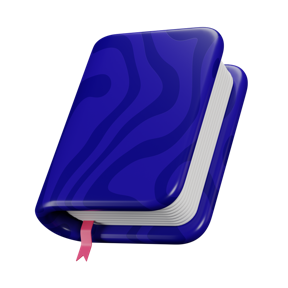
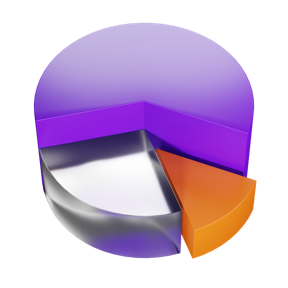
Zero-state art: calendar, pie chart and coffee cup replace three placeholders
Charen sourced the three the first pass could not fill. Each was chosen
against what the state's copy promises, then checked on the simulator:

- Money upcoming: calculator -> calendar. The copy promises a next date; a
  calculator means arithmetic.
- Insights this month: book -> exploded pie chart with one slice pulled out,
  which draws "See where the month went" literally. A book meant reading, and
  the lessons section was deleted in Phase 2.
- Money habits: dartboard -> takeaway coffee cup. A dartboard means "hit your
  target", the opposite motion from breaking a habit. The cup is the app's own
  house example: onboardingPresets lists "Coffee or tea out" first and the
  leak-scan payoff screen uses coffee as its worked example.

Rejected along the way, both recorded in ADR 0036: a flame for habits, because
the anti-reference list names streak flames and a flame means momentum on a
surface that exists before any momentum; and a leather wallet for Today kept,
because the Money tab's own icon is a wallet, cards fanned out is the gesture
of paying rather than keeping, and a wallet cannot show accumulation.

Bag, receipt, calendar and cup now share one warm family. today-kept is the
last placeholder: blue and gold under a sage "KEPT TODAY" label, and at 96pt
its speckle reads as noise. A stack of coins or a piggy bank would fix both.

assets/ 426 KB. 1080 tests, tsc clean, all seven states walked again.

diff --git a/constants/emptyArt.ts b/constants/emptyArt.ts
@@ -14,13 +14,15 @@
  * committed. Re-export with:
  *   sips -z 288 288 <source>.png --out assets/empty-states/<slug>.png
  *
- * Three of the seven are placeholders standing in for art that has not been
- * sourced yet, recorded in ADR 0036 and in design/decisions/components/
- * EmptyState.md: 'money-upcoming' wants a calendar or clock rather than a
- * calculator, 'money-habits' wants a dripping tap (the product's own word is
- * "leak") rather than a dartboard, and 'insights-month' wants a pie or bar
- * chart rather than a book. Swapping one is a single file replacement here;
- * no call site changes.
+ * Six of the seven are settled. 'today-kept' is the one still standing in:
+ * it is a blue and gold money sack under a sage "KEPT TODAY" label, so it
+ * inverts the one colour this app reserves for a meaning, and at 96pt its
+ * speckle reads as noise rather than money. A stack of coins or a piggy bank
+ * would say "money that never left" without the collision. Recorded in
+ * ADR 0036.
+ *
+ * Swapping any of these is a single file replacement here; no call site
+ * changes. That is the point of the registry.
  */
 
 /** Rendered edge length in points. One scale for every zero state. */

diff --git a/design/decisions/modules/money.md b/design/decisions/modules/money.md
@@ -9,19 +9,18 @@ Vocabulary (ADR 0034): **Zero** nothing ever happened here; **Quiet** history el
 - Spent Zero: pane-level empty state, 96pt receipt, "Every expense in one place". Reach: Persona new user.
 - Spent Quiet: today's section shows a compact white card ("Nothing yet today"), past days still listed. Deliberately not the EmptyState primitive, so past days stay visible below it. Reach: returning user, delete today's rows.
 - Spent Live: day sections newest first, edit hint in the footer.
-- Upcoming Zero: no recurring expense exists at all, so the whole window and total card is dropped for a 96pt calculator and "Know what's coming before it lands". Reach: Persona new user.
+- Upcoming Zero: no recurring expense exists at all, so the whole window and total card is dropped for a 96pt calendar and "Know what's coming before it lands". Reach: Persona new user.
 - Upcoming window-empty: something recurs, just not in the picked window. Keeps the total card and shows a body-only inline empty state, because the window picker is how the user gets back to their data. A different state from Zero on purpose.
-- Habits Zero: 96pt dartboard, "Find the leak worth breaking". Reach: Persona new user.
+- Habits Zero: 96pt takeaway coffee cup, "Find the leak worth breaking". Reach: Persona new user.
 - Habits Live: managed rows plus the monthly total.
 
 ## Decisions
 - 2026-09-05: the three Zero states carry 96pt illustrations instead of the shared 28pt ChartLine glyph. Why: Spent, Upcoming and Habits rendered an identical mark, so switching segments changed the words and nothing else. ADR 0036.
+- 2026-09-05: Upcoming's calculator became a calendar and Habits' dartboard became a takeaway coffee cup. Why: a calculator means arithmetic where the copy promises a next date, and a dartboard means "hit your target" where the app's own word is leak. The cup is the house example: `constants/onboardingPresets.ts` lists "Coffee or tea out" first, and the leak-scan payoff screen uses coffee as its worked example. Rejected: a dripping tap (better still, none available), a flame (the anti-reference list names streak flames). ADR 0036.
 - 2026-09-05: Zero copy names what the surface gives you rather than reporting an absence. "Nothing logged yet" became "Every expense in one place"; "Nothing repeating yet" became "Know what's coming before it lands"; "No leaks spotted yet" became "Find the leak worth breaking". Why: half the app's zero states sold a benefit and half described a void, and the benefit voice is the one that converts a skipper. ADR 0036.
 - Upcoming keeps two distinct empty states (true-zero and window-empty). Why: hiding the window picker when a window is merely empty would strand the user away from data they have.
 
 ## Open
-- The Upcoming illustration is a placeholder. A calculator means arithmetic; this state is about a next date, so it wants a calendar or a clock. Seen on the 2026-09-05 walk, the clearest art-to-copy mismatch of the seven. ADR 0036.
-- The Habits illustration is a placeholder. A dartboard means "hit your target"; "leak" is the product's own word and a dripping tap would name it. It pairs better with "Find the leak worth breaking" than expected, so this is the least urgent of the three swaps.
 - Whether Money's empty states drop their body line as Today's did (carried over from EmptyState.md).
 
 ## Iterations

diff --git a/design/decisions/modules/insights.md b/design/decisions/modules/insights.md
@@ -6,7 +6,7 @@ Where the money went, and which leaks are worth breaking. Two segments: This mon
 ## States
 Vocabulary (ADR 0034): **Zero** nothing ever happened here; **Live** data present.
 
-- This month Zero: no expenses and no leaks, so the whole three-card stack is replaced by a pane-level empty state, 96pt book, "See where the month went". Reach: Persona new user.
+- This month Zero: no expenses and no leaks, so the whole three-card stack is replaced by a pane-level empty state, 96pt exploded pie chart, "See where the month went". Reach: Persona new user.
 - This month Live: LeaksCard, WhereItWentCard, PaceCard. Each carries its own in-card empty line rather than disappearing, so the shape of the screen is stable as data arrives.
 - First scan Zero: no scan on file, 96pt magnifier, "Find the leaks you already have". Reach: Persona new user.
 - First scan Live: ScanSnapshotCard.
@@ -15,12 +15,13 @@ Vocabulary (ADR 0034): **Zero** nothing ever happened here; **Live** data presen
 ## Decisions
 - 2026-09-05: both Zero states carry 96pt illustrations instead of the shared 28pt ChartLine glyph. Why: This month and First scan are different questions and rendered the same mark. ADR 0036.
 - 2026-09-05: `scanEmptyTitle` ("Find the leaks you already have") was left untouched in the copy pass and used as the model for every other zero state. Why: it is the only line in the app that names a benefit the user already owns rather than an action they must take.
+- 2026-09-05: the book became an exploded pie chart with one slice pulled out. Why: a book means reading, and the lessons section was deleted in Phase 2, so the art advertised a feature that does not exist. The pulled slice draws the copy literally. ADR 0036.
 - 2026-09-05: `monthEmptyTitle` became "See where the month went". Why: "Your first insights are a few logs away" measured the distance to value instead of naming it.
 - In-card empty states (leaks, where it went, pace) stay text-only, no art. Why: an illustration inside a card competes with the card it sits in; the pane-level mark is the one that earns the space.
 - Pace and Where it went carry no CTA. Why: they resolve with time and data, not with a tap, and a button there would be a lie about what the user can do.
 
 ## Open
-- The This month illustration is a placeholder. A book means reading, and the app deliberately deleted its lessons section in Phase 2, so the art advertises a feature that does not exist. A pie or bar chart belongs here. Seen on the 2026-09-05 walk, the weakest art-to-copy pairing after Upcoming. ADR 0036.
+- The This month pie is lavender, which the palette reserves for the habit arc and premium. It is the one illustration whose colour claims a meaning on a surface that does not own it. Low severity: a pie chart is unambiguous enough that the hue reads as decoration. Watch it on the device pass.
 - Whether Insights' empty states drop their body line as Today's did (carried over from EmptyState.md).
 
 ## Iterations

diff --git a/design/decisions/components/EmptyState.md b/design/decisions/components/EmptyState.md
@@ -17,9 +17,8 @@ With or without each part; inline / fill; art or glyph.
 
 ## Open
 - Decide whether Money's, Insights' and Categories' empty states drop their body too.
-- Three illustrations are placeholders and want replacing (ADR 0036). Seen on the simulator walk, 2026-09-05: `money-upcoming` is a calculator under copy about a next date, the clearest mismatch of the seven; `insights-month` is a book under "See where the month went", where a pie or bar chart belongs; `money-habits` is a dartboard where a dripping tap would name the product's own word. Swapping one is a file replacement in `assets/empty-states/`, no call site changes.
-- The kept illustration is blue and gold while kept is sage everywhere else, including the chip label directly above it. Seen 2026-09-05 on Today, Kept Zero. Recolour if the source allows.
-- At 96pt the kept sack reads as a blue ball with an orange ribbon; its gold speckle becomes noise. Busiest render in the set.
+- `today-kept` is the last placeholder. It is blue and gold while kept is sage everywhere else, including the chip label directly above it, and at 96pt it reads as a blue ball with an orange ribbon because the gold speckle becomes noise. Seen 2026-09-05 on Today, Kept Zero. A stack of coins (which depicts accumulation, as the kept counter does) or a piggy bank would fix both problems; a green variant would be better still, since kept is the one concept in this app that owns a colour and no illustration currently honours it.
+- Rejected for this slot, 2026-09-05: a leather wallet with cards. The Money tab's own icon is a wallet (`app/(tabs)/_layout.tsx`), so it would point at another tab from directly above that tab's icon; cards fanned out is the gesture of paying, not of keeping; and a wallet cannot show accumulation.
 - Dynamic Type: verified 2026-09-05 at accessibility-extra-extra-extra-large on the iPhone 16 simulator. The art holds 96pt while the body grows uncapped; Today's Spent Zero and Money's Spent Zero both keep art, title, body and CTA on screen with room to spare. Fixing the art's size is what makes that work, since art that grew with the text would push the CTA off. Still owed a real device pass with VoiceOver.
 
 ## Iterations
